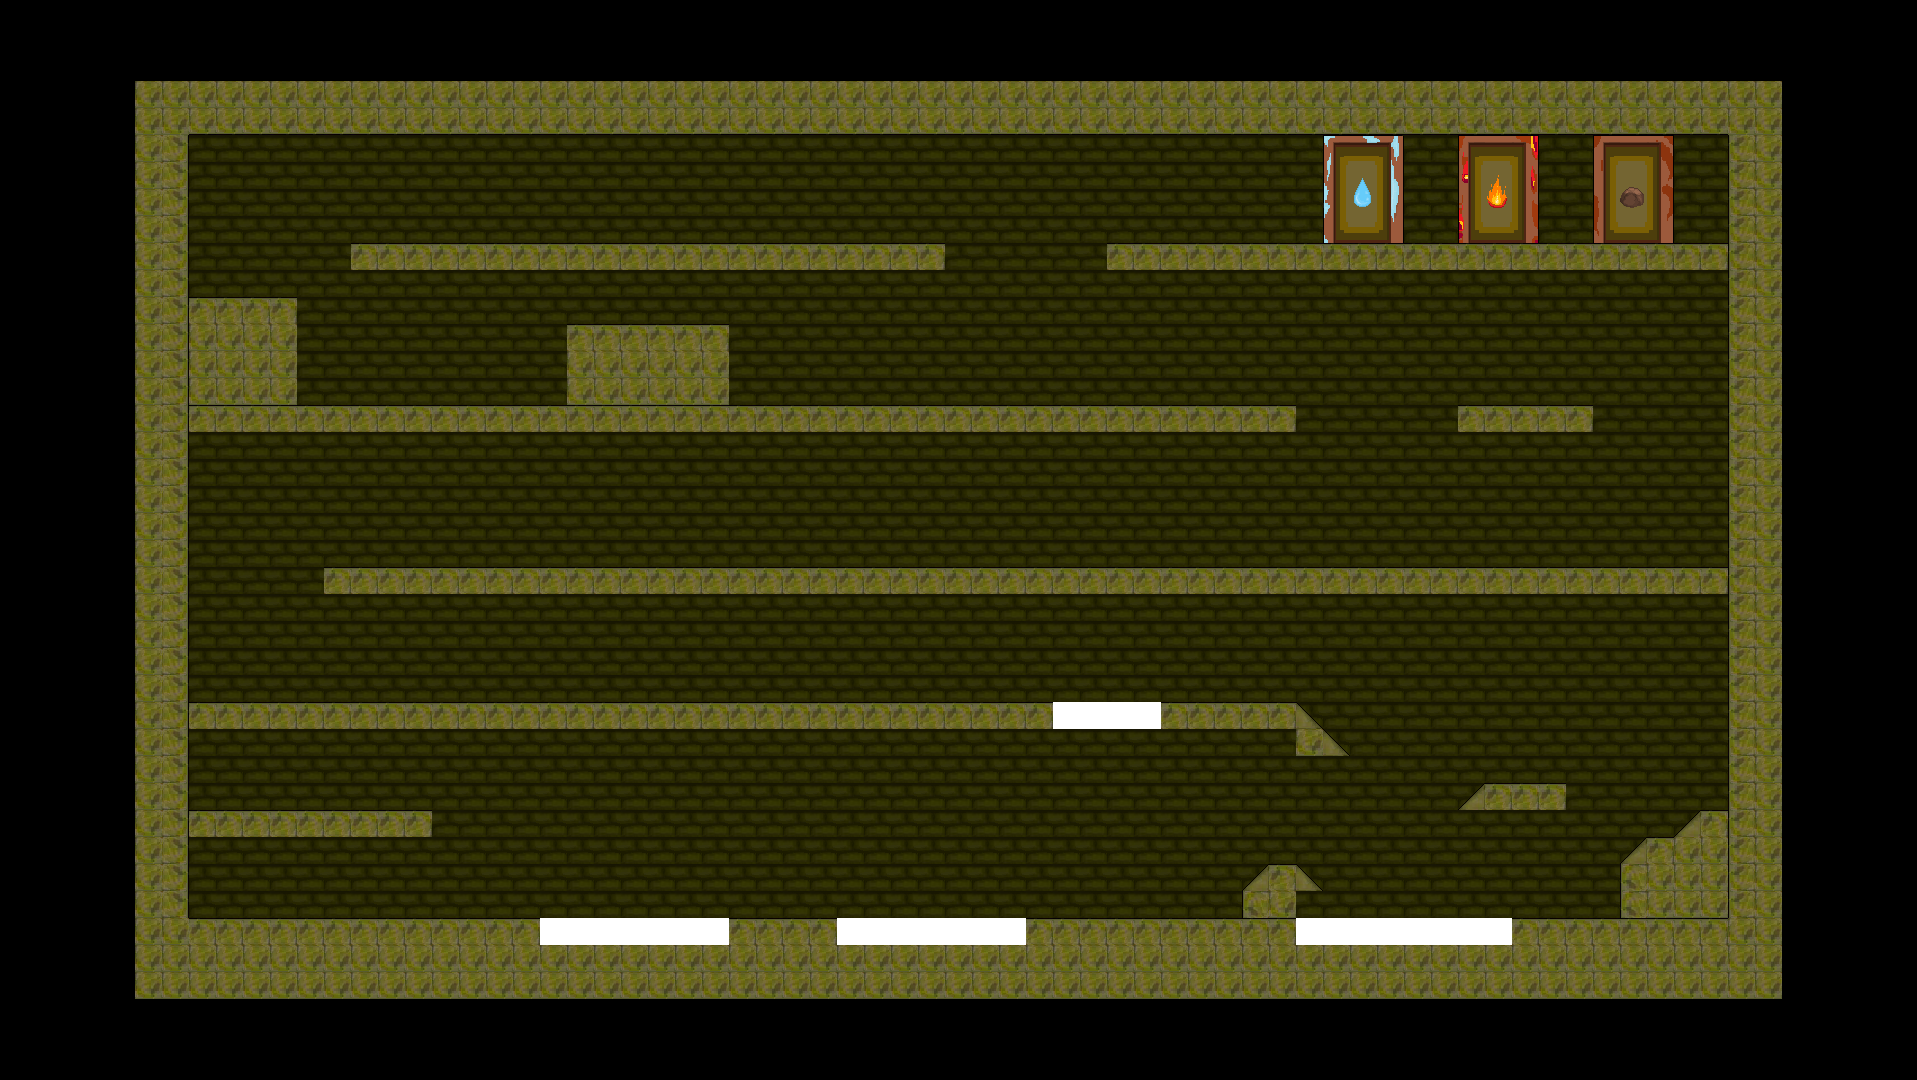
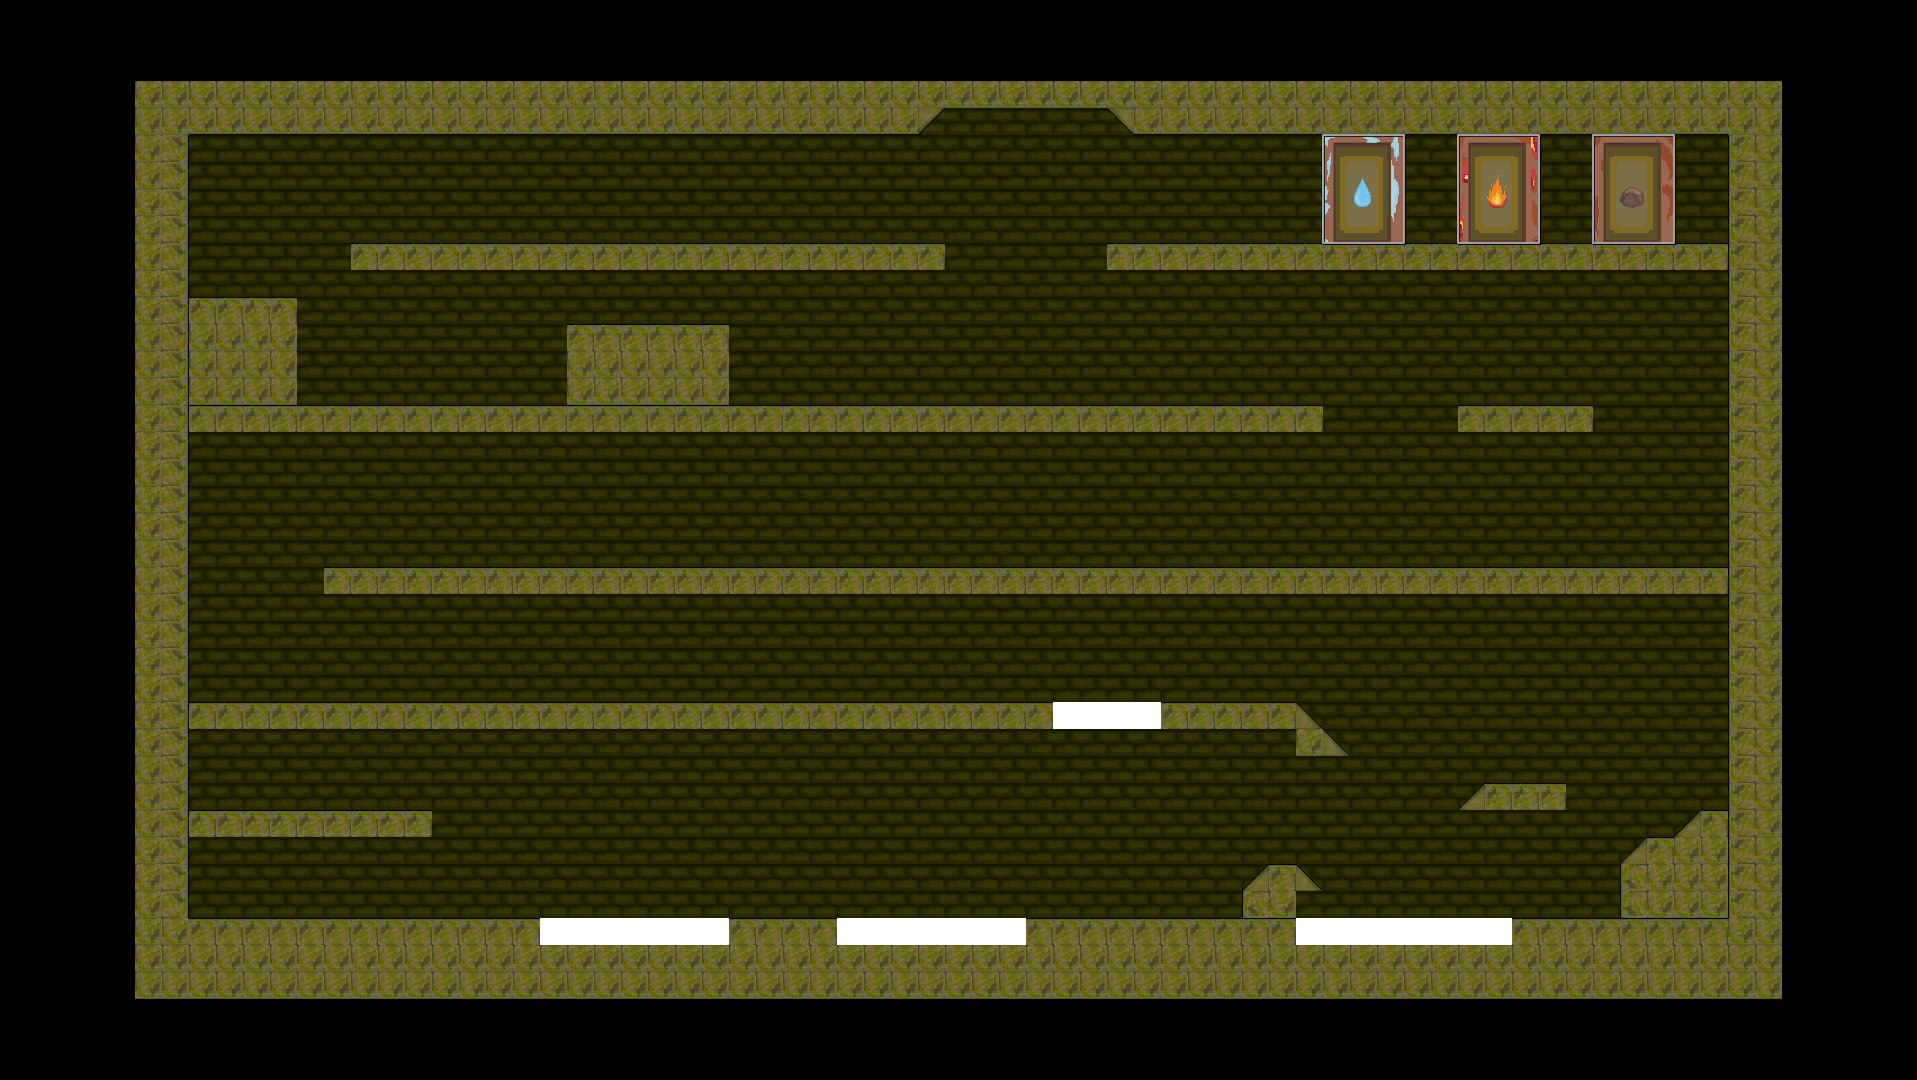
1

Changed region(s): [[0.6771, 0.1222, 0.8925, 0.2444], [0.4617, 0.0917, 0.5848, 0.1222], [0.6771, 0.3667, 0.7079, 0.3972]]

diff --git a/src/mapa/fases/fase4.c b/src/mapa/fases/fase4.c
@@ -132,15 +132,12 @@ static bool AnyButtonPressedWithToken(const PhaseButton* buttons, int count, con
 
 static bool PlayerAtDoor(const Player* p, Rectangle door) {
     if (door.width <= 0 || door.height <= 0) return false;
-    float pxCenter = p->rect.x + p->rect.width * 0.5f;
-    float doorLeft = door.x;
-    float doorRight = door.x + door.width;
-    const float toleranceX = 10.0f;
-    if (pxCenter < doorLeft - toleranceX || pxCenter > doorRight + toleranceX) return false;
-    float feet = p->rect.y + p->rect.height;
-    float doorBase = door.y + door.height;
-    const float toleranceY = 18.0f;
-    return feet >= doorBase - toleranceY && feet <= doorBase + toleranceY;
+    Rectangle expanded = door;
+    expanded.x -= 12.0f;
+    expanded.width += 24.0f;
+    expanded.y -= 6.0f;
+    expanded.height += 12.0f;
+    return CheckCollisionRecs(p->rect, expanded);
 }
 
 static void DrawPlatformWithTexture(const Platform* plat, Texture2D tex, Color fallback) {
@@ -780,6 +777,10 @@ fim_bloco:
         bool earthAtDoor = PlayerAtDoor(&earthboy, doorTerra);
         bool fireAtDoor  = PlayerAtDoor(&fireboy,  doorFogo);
         bool waterAtDoor = PlayerAtDoor(&watergirl, doorAgua);
+        bool allAtAgua = PlayerAtDoor(&earthboy, doorAgua) &&
+                         PlayerAtDoor(&fireboy, doorAgua)  &&
+                         PlayerAtDoor(&watergirl, doorAgua);
+        if (allAtAgua) { completed = true; break; }
 
         if (fanArea.width > 0 && fanArea.height > 0) {
             for (int p = 0; p < 3; ++p) {

diff --git a/src/mapa/fases/fase5.c b/src/mapa/fases/fase5.c
@@ -664,6 +664,7 @@ bool Fase5(void) {
     Camera2D cam = {0}; cam.target=(Vector2){mapTex.width/2.0f,mapTex.height/2.0f}; cam.offset=(Vector2){GetScreenWidth()/2.0f,GetScreenHeight()/2.0f}; cam.zoom=1.0f;
 
     bool completed=false; float elapsed=0.0f; bool debug=false;
+    bool earthAtDoor=false, fireAtDoor=false, waterAtDoor=false;
     bool tempoButtonLatched=false; float tempoButtonTimer=0.0f; float barra3Timer=0.0f;
     SetTargetFPS(60);
     while (!WindowShouldClose()) {
@@ -839,9 +840,9 @@ bool Fase5(void) {
             }
         }
 
-        bool earthAtDoor = PlayerAtDoor(&earthboy, doorTerra);
-        bool fireAtDoor  = PlayerAtDoor(&fireboy,  doorFogo);
-        bool waterAtDoor = PlayerAtDoor(&watergirl, doorAgua);
+        earthAtDoor = PlayerAtDoor(&earthboy, doorTerra);
+        fireAtDoor  = PlayerAtDoor(&fireboy,  doorFogo);
+        waterAtDoor = PlayerAtDoor(&watergirl, doorAgua);
 
         // Desenho
         BeginDrawing(); ClearBackground(BLACK); BeginMode2D(cam);
